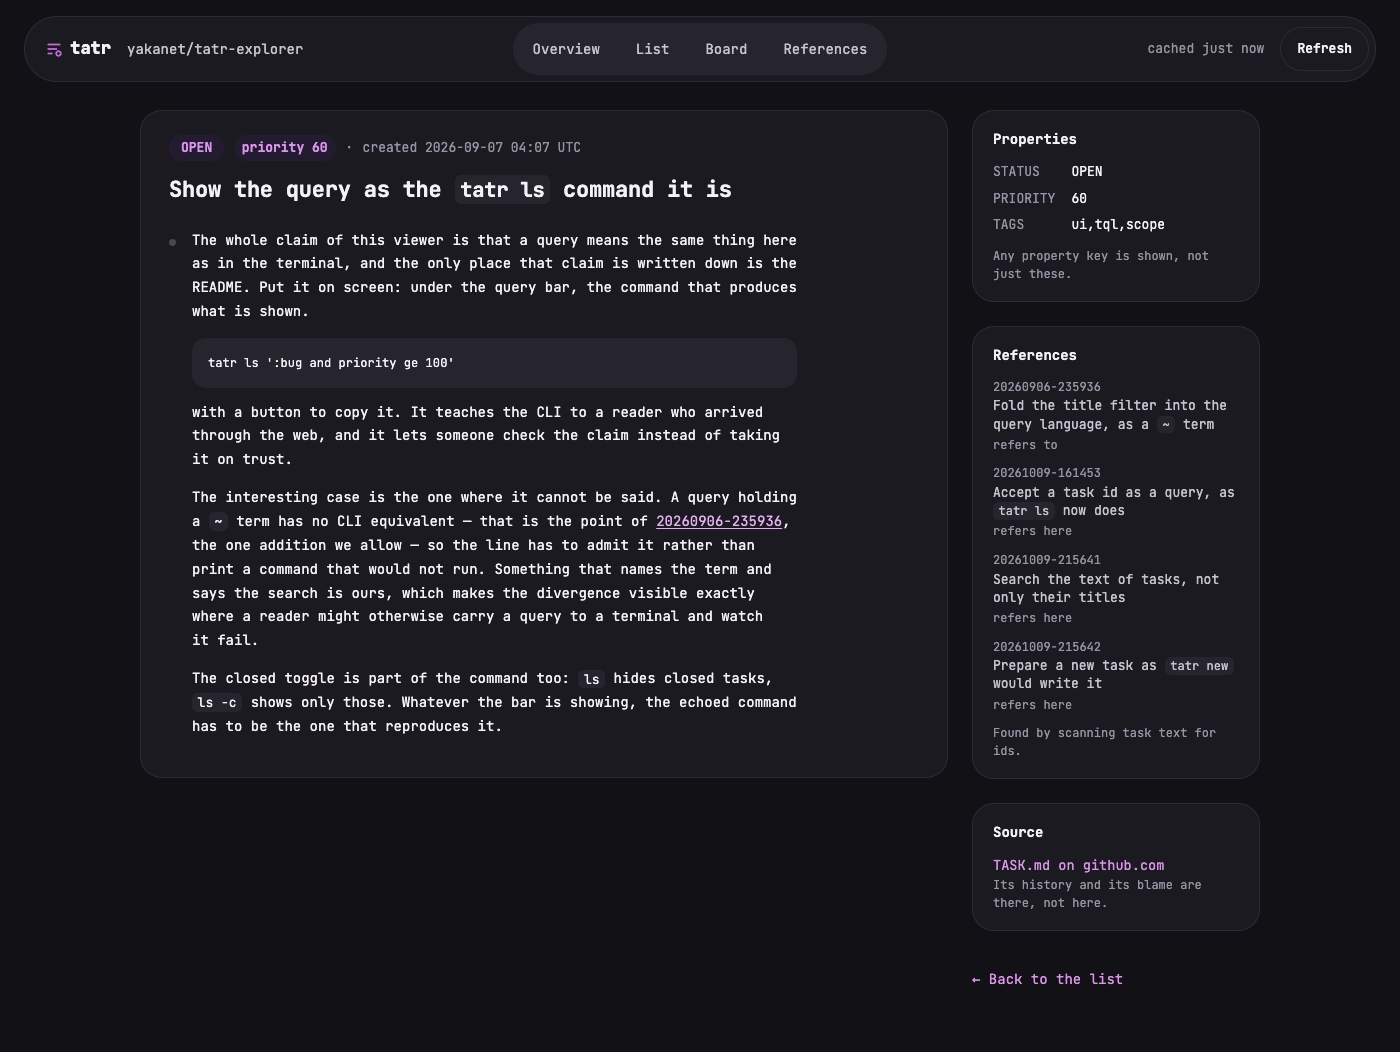
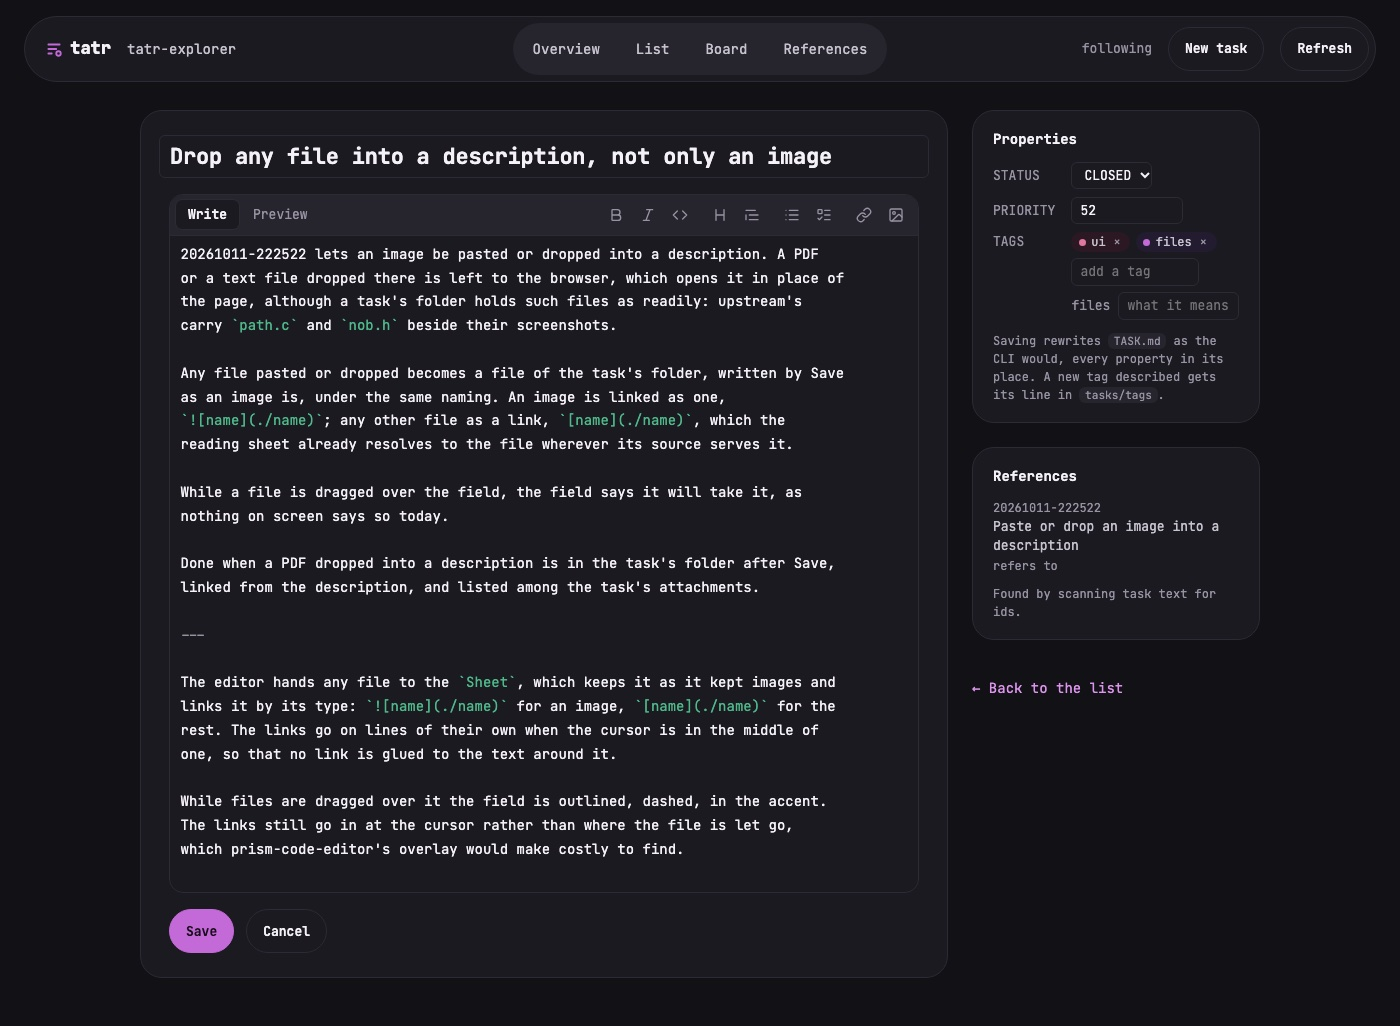
docs: the README's pictures show a composite query and the editing sheet

diff --git a/README.md b/README.md
@@ -80,7 +80,7 @@ pnpm run fixtures   # runs the real tatr, built in ../tatr, and records what it 
 pnpm test           # replays every recording against this viewer: a divergence fails
 ```
 
-![The filtered list](docs/list.jpg)
+![The list, filtered by a composite query](docs/list.jpg)
 
 ## Edit, where the folder can be written
 
@@ -97,7 +97,7 @@ Save writes only what you changed, and never over a change it did not read. A
 file is rewritten as `tatr untag` rewrites one, so a file the CLI wrote comes
 back byte for byte. Undo puts the task's file back.
 
-![One task, rendered](docs/task.jpg)
+![One task, being edited](docs/task.jpg)
 
 ## Private by construction
 
